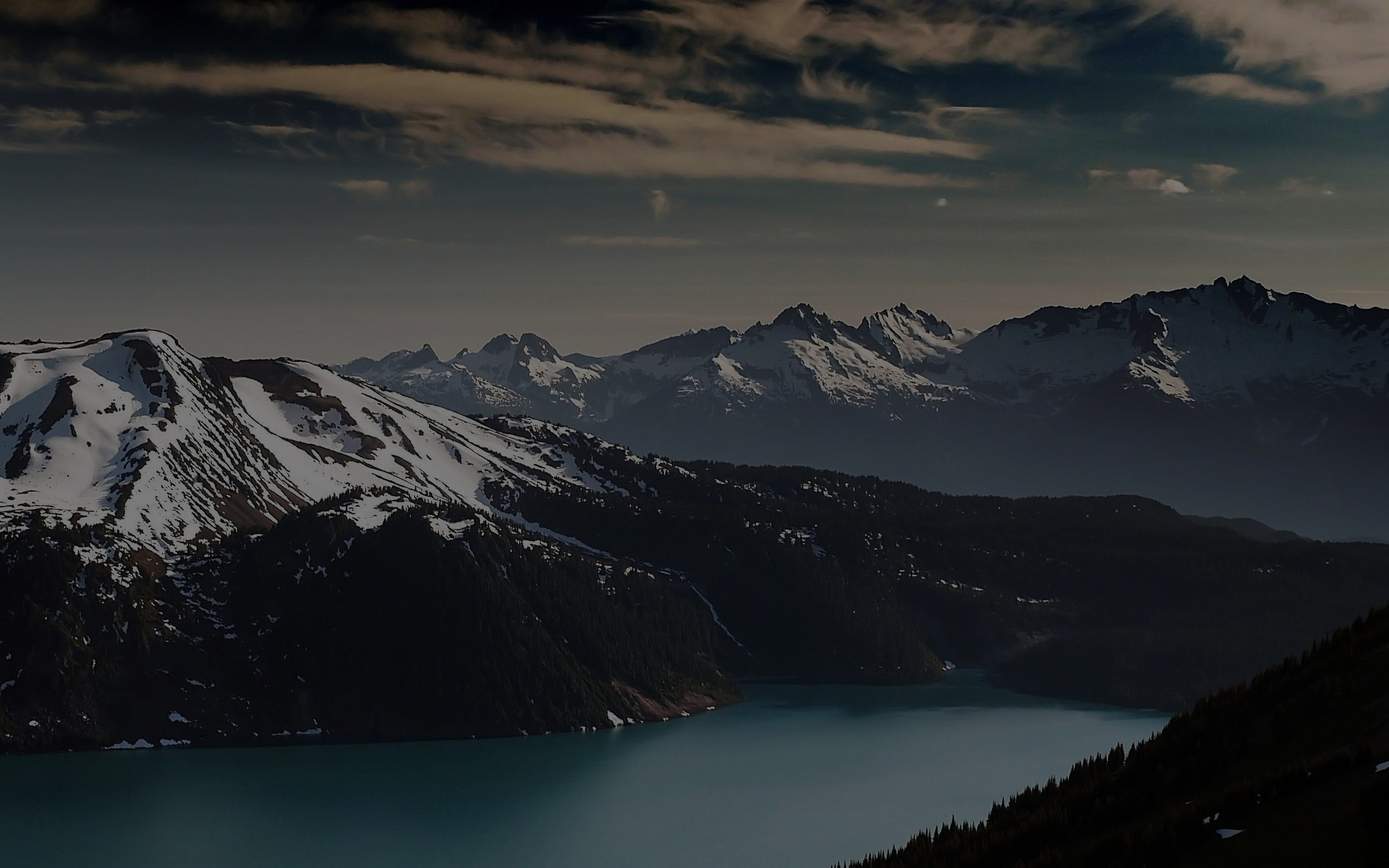
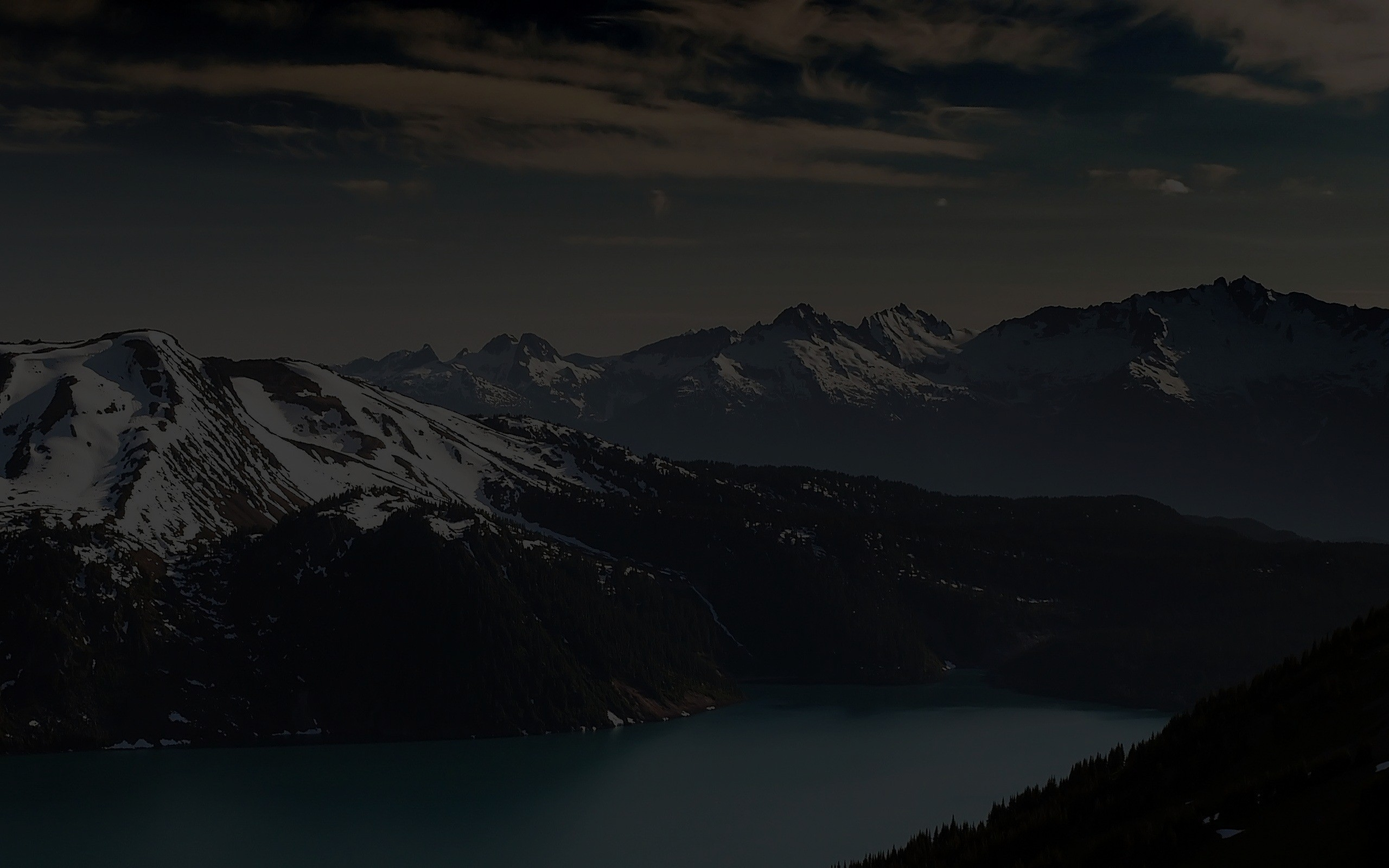
Make background darker

diff --git a/public/stylesheets/app.css b/public/stylesheets/app.css
@@ -178,10 +178,10 @@ body {
     background-size: cover;
 }
 
-body:after {
+body:after { /* This doesn't work but I'm keeping it*/
     width: 100%;
     height: 100%;
-    background-color: rgba(0, 0, 0, 0.5);
+    background-color: rgba(0, 0, 0, 0.7);
     z-index: 1;
 }
 
